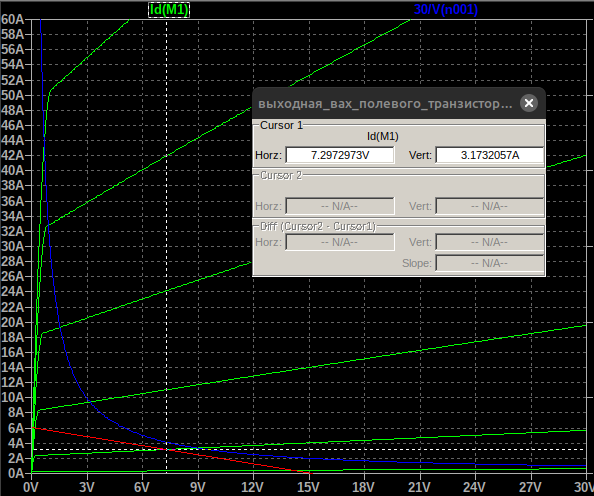
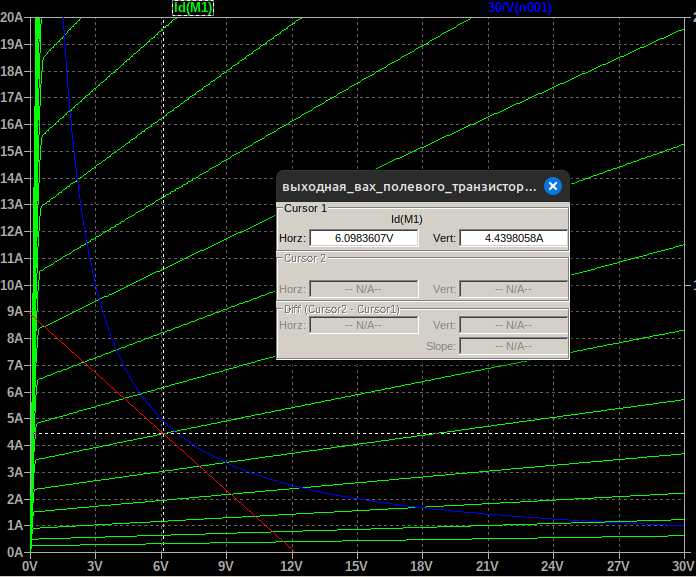
Lab 3 is done

diff --git a/lab3/content.tex b/lab3/content.tex
@@ -103,31 +103,33 @@
 \section*{Задание рабочей точки усилительного каскада с общим
 истоком}
 
-На выходной ВАХ построим линию максимальной мощности (см. Рис. \ref{fig:рабочая_точка}),
-выберем значение напряжения источника питания $E_\text{К}=15\ B$.
-Величина сопротивления $R_C$ оказывает влияние на частотные
-свойства каскада. С точки зрения расширения частотного
-диапазона рекомендуется значение $R_C$ уменьшить. Нам известно 
-внутреннее сопротивление транзистора, тогда значение сопротивления можно выбрать в
-соответствии с соотношением $R_C=(0.05\dots 0.15)R_i$, пусть $R_C=0.1\cdot R_i=0.05\ \text{Ом}$. 
-
-На выходной ВАХ построим нагрузочную линию. Для построения
-линии рассматриваются два режима --- режим холостого
-хода и короткого замыкания, соответственно находятся две
-точки, через которые проходит нагрузочная линия. Обычно
-выбирают величину падения напряжения на $R_\text{И}$ порядка $(0.1\dots 0.3)E_K$,
-тогда пусть $R_\text{И}=0.16\cdot E_K=2.5\ \text{Ом}$. Итоговую нагрузочную линию
-можно увидеть на рисунке \ref{fig:рабочая_точка} ввиде красной линии. 
-Получаем точку (см. Рис. \ref{fig:рабочая_точка}):
+На выходной ВАХ построим линию максимальной мощности (см. Рис. \ref{fig:рабочая_точка}).
+На ВАХ в рабочем диапазоне нанесем нагрузочную линию (см. Рис. \ref{fig:рабочая_точка}),
+выбрав значение напряжения источника питания $E_\text{К}=12\ B$ и $I_\text{КЗ}=9\ A$:
 \begin{equation*}
-    U_{\text{СИ}_0}=7.3\ \text{В},\quad I_{\text{С}_0}=3.2\ A,\quad U_{\text{ЗИ}_0}=2.2\ B.
+    U_{\text{СИ}_0}=6.10\ \text{В},\quad I_{\text{С}_0}=4.44\ A,\quad U_{\text{ЗИ}_0}=2.25\ B.
 \end{equation*}
-
-Расчет значений сопротивлений резисторов делителя. Можно задать значение
-сопротивления $R_1=1\dots 2\ \text{МОм}$, пусть $R_1=1\ \text{МОм}$. 
+Тогда $R_C=1.33\ \text{Ом}$, $R_1=43\ \text{МОм}$, $R_2=10\ \text{МОм}$. Собрем
+схему как на рисунке \ref{fig:общий_исток} только без источника напряжения V1 и
+конденсатора С1, чтобы проверить рабочую точку. После симуляции получим значения
 \begin{equation*}
-    R_2=\frac{E_KR_2}{U_{\text{И}_0}+U_{\text{ЗИ}_0}}-R_1=\frac{15\cdot 1e6}{8+2.2}-1e6\approx0.46\ \text{МОм}.
+    U_{\text{СИ}}=6.12\ \text{В},\quad I_{\text{С}}=4.90\ A,\quad U_{\text{ЗИ}}=2.26\ B,
 \end{equation*}
+как видно значения похожи на рабочую точку, отличается сильнее всего сила тока
+стока.
+
+Проведем моделирование схемы \ref{fig:общий_исток} при гармоническом
+входном сигнале с амплитудой 0.1 В и частотой 1 кГц. Осциллограммы входных и выходных токов и
+напряжений на рисунках \ref{fig:гарм_ток} и \ref{fig:гарм} соответственно.
+
+Рассчитаем коэффициент усиления по напряжению:
+\begin{equation*}
+    K_U=\frac{U_{\text{ВЫХ}_{max}}}{U_{\text{ВХ}_{max}}}=\frac{2.85\ V}{99.89\ mV}
+    \approx 2.85\ .
+\end{equation*}
+Проведем его частотный анализ (см. Рис. \ref{fig:ачх}). Амплитуда схему не
+изменяется до 10 МГц, после чего уже на 100 МГц начинает сильно падать, фаза
+смещается постоянно, и чем больше частота тем меньше фаза.
 
 \begin{figure}[H]
     \centering
@@ -136,9 +138,39 @@
     \label{fig:рабочая_точка}
 \end{figure}
 
+\begin{figure}[H]
+    \centering
+    \includegraphics[width=\linewidth]{figs/схема_общий_исток.png}
+    \caption{Схема усилительного каскада с общим истоком}
+    \label{fig:общий_исток}
+\end{figure}
+
+\begin{figure}[H]
+    \centering
+    \includegraphics[width=0.8\linewidth]{figs/гарм.png}
+    \caption{Осциллограммы входных и выходных напряжений}
+    \label{fig:гарм}
+\end{figure}
+
+\begin{figure}[H]
+    \centering
+    \includegraphics[width=0.8\linewidth]{figs/гарм_ток.png}
+    \caption{Осциллограммы входных и выходных токов}
+    \label{fig:гарм_ток}
+\end{figure}
+
+\begin{figure}[H]
+    \centering
+    \includegraphics[width=0.8\linewidth]{figs/ачх.png}
+    \caption{АЧХ коэффициента усиления по напряжению схемы с общим истоком}
+    \label{fig:ачх}
+\end{figure}
 
 
 \section*{Заключение}
 
-
-
+В ходе лабораторной исследовали передаточную и выходную ВАХ МОП-транзистора с 
+индуцированным каналом: HAT2164H, 
+также рассмотрели одно из его применений, а именно транзистор как
+усилитель в схеме с общим истоком. Для оценки усиления использовался коэффициент 
+усиления напряжения, который составил $2.85$.
